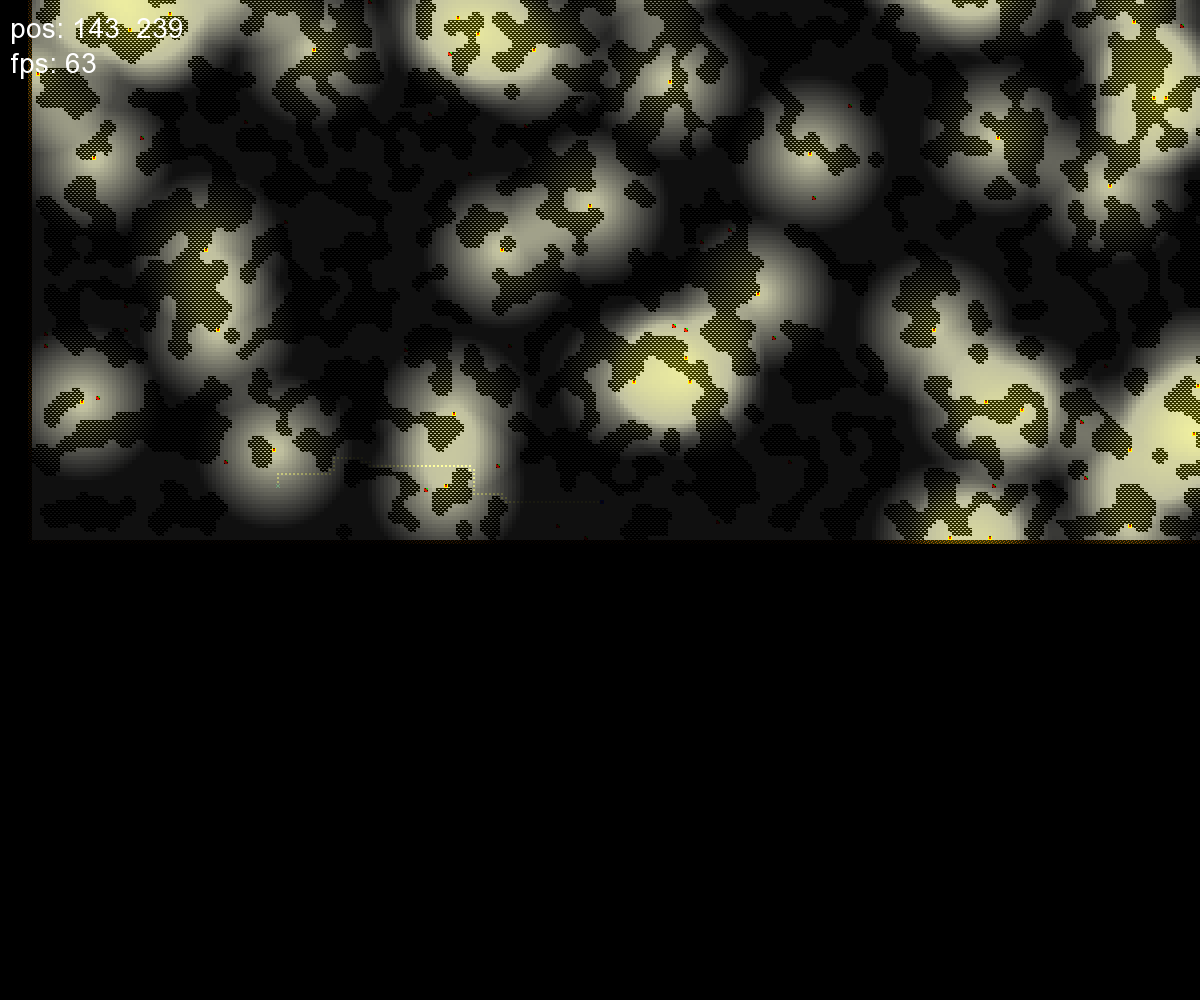
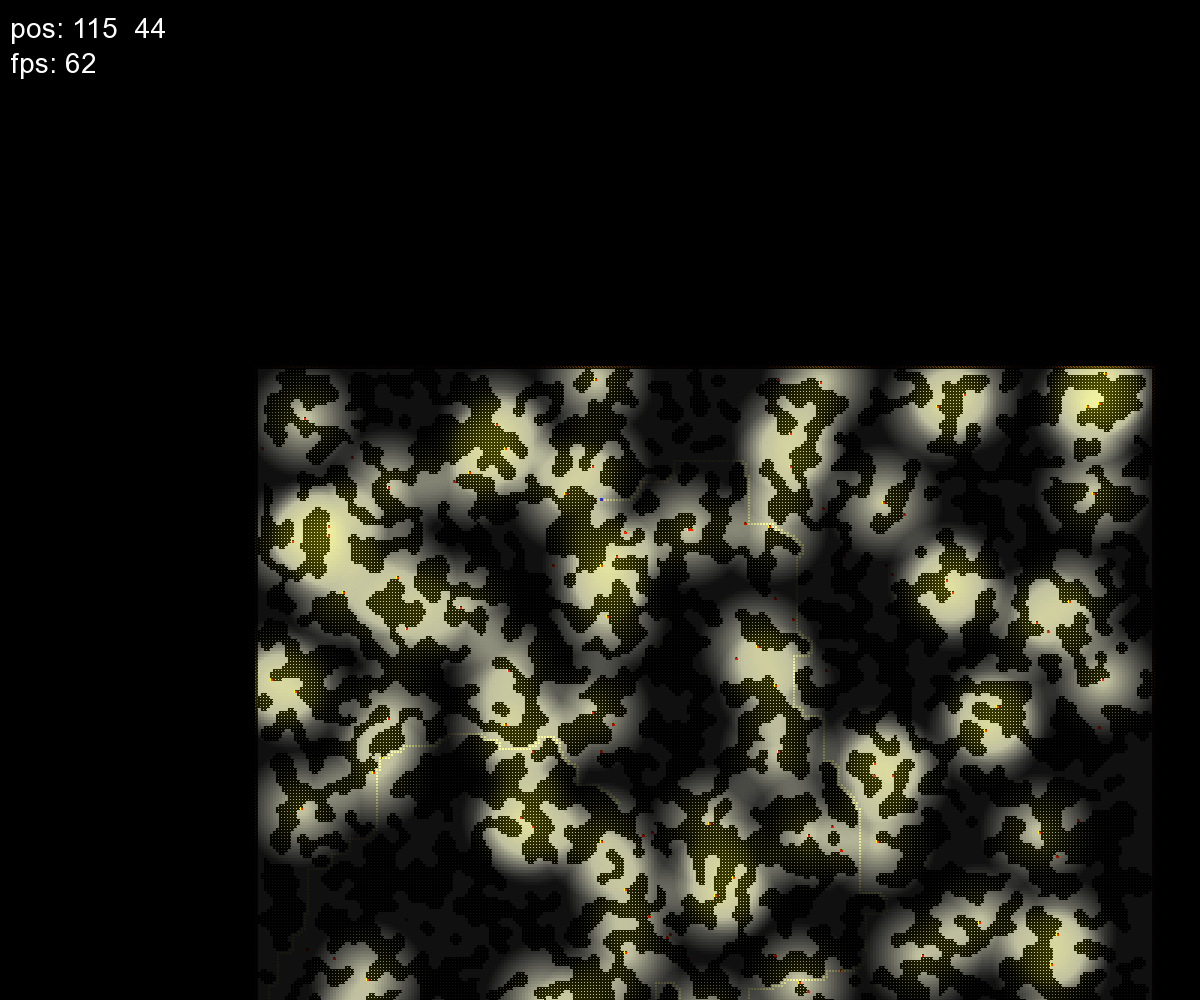
add width for tunnels

diff --git a/src/Life.cpp b/src/Life.cpp
@@ -40,7 +40,8 @@ Object OBJECTS[COUNT_OBJECTS] = {
 
 static void map_create_connectivity(char* map);
 static void set_room_connection    (char* map, Tunnel_t* tunnels, int count, int* mst);
-static void draw_line       (char* map, int x1, int y1, int x2, int y2);
+static void get_tunnel      (int* points, int x1, int y1, int x2, int y2);
+static void draw_circle     (char* map, int* points);
 static void get_graph_mst   (int* graph, int count, int* mst);
 static void make_graph      (MapRoom_t* map_room, int* graph, Tunnel_t* tunnels);
 static void paint_graph     (MapRoom_t* map_room, char* map);
@@ -57,7 +58,7 @@ static void select_free_pos (char* map, char* free_pos, int count_free, int* fre
 static bool check_neighbors (Object* src_obj, char* map, int pos);
 static int  is_obj_on_border(int x, int y);
 static int  obj_can_set     (char* map, int map_ind);
-static int get_obj_index    (int obj_sym);
+static int  get_obj_index   (int obj_sym);
 
 int pos_in_pix_window(int x, int y)
 {
@@ -124,11 +125,14 @@ static void set_room_connection(char* map, Tunnel_t* tunnels, int count, int* ms
         int x2 = finish % BYTE_WIDTH;
         int y2 = finish / BYTE_WIDTH;
 
-        draw_line(map, x1, y1, x2, y2);
+        int* points = (int*) calloc(sizeof(int), BYTE_HEIGHT * BYTE_WIDTH);
+        get_tunnel(points, x1, y1, x2, y2);
+        draw_circle(map, points);
+        free(points);
     }
 }
 
-static void draw_line(char* map, int x1, int y1, int x2, int y2)
+static void get_tunnel(int* points, int x1, int y1, int x2, int y2)
 {
     int dx = abs(x2 - x1);
     int dy = abs(y2 - y1);
@@ -138,18 +142,43 @@ static void draw_line(char* map, int x1, int y1, int x2, int y2)
     int e2;
     
     int x = x1, y = y1;
+    points[y * BYTE_WIDTH + x] = 1;
     while (!(x == x2 && y == y2)) {
-        map[y * BYTE_WIDTH + x] = SYM_OBJ_TUNNEL;
         e2 = 2 * err;
         if (e2 > -dy) {
             err -= dy;
             x += sx;
         }
 
-        map[y * BYTE_WIDTH + x] = SYM_OBJ_TUNNEL;
+        points[y * BYTE_WIDTH + x] = 1;
         if (e2 < dx) {
             err += dx;
             y += sy;
+        }
+        points[y * BYTE_WIDTH + x] = 1;
+    }
+}
+
+static void draw_circle(char* map, int* points)
+{
+    for (int pos = 0; pos < BYTE_HEIGHT * BYTE_WIDTH; pos++) {
+        if (points[pos] == 0) continue;
+
+        int x = pos % BYTE_WIDTH;
+        int y = pos / BYTE_WIDTH;
+        for (int dy = -TUNNELS_WIDTH; dy <= TUNNELS_WIDTH; dy++) {
+            for (int dx = -TUNNELS_WIDTH; dx <= TUNNELS_WIDTH; dx++) {
+                int dpos = pos + dy * BYTE_WIDTH + dx;
+
+                if (dpos < 0 || dpos >= BYTE_HEIGHT * BYTE_WIDTH)
+                    continue;
+
+                if (is_obj_on_border(x + dx, y + dy))
+                    continue;
+
+                if (dx * dx + dy * dy <= TUNNELS_WIDTH)
+                    map[dpos] = SYM_OBJ_TUNNEL;
+            }
         }
     }
 }
@@ -332,14 +361,14 @@ static void set_light_lamp(Map_t* map, int x, int y)
 
 static void map_gen(char* map)
 {
-    for (int i = 0; i < BYTE_HEIGHT; i++) {
-        for (int j = 0; j < BYTE_WIDTH; j++) {
-            int pos = i * BYTE_WIDTH + j;
-            if (is_obj_on_border(i, j))
+    for (int y = 0; y < BYTE_HEIGHT; y++) {
+        for (int x = 0; x < BYTE_WIDTH; x++) {
+            int pos = y * BYTE_WIDTH + x;
+            if (is_obj_on_border(x, y))
                 map[pos] = SYM_OBJ_BORDER;
 
-            int x = (rand() % 100 + 1);
-            if (x >= CHANCE_LIFE)
+            int chance = (rand() % 100 + 1);
+            if (chance >= CHANCE_LIFE)
                 map[pos] = SYM_OBJ_WALL;
             else
                 map[pos] = SYM_OBJ_ROAD;
@@ -350,10 +379,10 @@ static void map_gen(char* map)
 static void map_step(char* map)
 {
     char new_m[BYTE_HEIGHT * BYTE_WIDTH];
-    for (int i = 0; i < BYTE_HEIGHT; i++) {
-        for (int j = 0; j < BYTE_WIDTH; j++) {
-            int pos = i * BYTE_WIDTH + j;
-            if (is_obj_on_border(i, j)) {
+    for (int y = 0; y < BYTE_HEIGHT; y++) {
+        for (int x = 0; x < BYTE_WIDTH; x++) {
+            int pos = y * BYTE_WIDTH + x;
+            if (is_obj_on_border(x, y)) {
                 new_m[pos] = SYM_OBJ_BORDER;
                 continue;
             }
@@ -362,7 +391,7 @@ static void map_step(char* map)
                 for (int dy = -1; dy <= 1; dy++) {
                     if (!(((dx) != 0) || ((dy) != 0)))
                         continue;
-                    if (map[(i + dx) * BYTE_WIDTH + (j + dy)] == SYM_OBJ_WALL)
+                    if (map[(y + dx) * BYTE_WIDTH + (x + dy)] == SYM_OBJ_WALL)
                         byte_val_neighbours++;
                 }
             }
@@ -374,9 +403,9 @@ static void map_step(char* map)
                 new_m[pos] = SYM_OBJ_ROAD;
         }
     }
-    for (int i = 0; i < BYTE_HEIGHT; i++) {
-        for (int j = 0; j < BYTE_WIDTH; j++) {
-            int pos = i * BYTE_WIDTH + j;
+    for (int y = 0; y < BYTE_HEIGHT; y++) {
+        for (int x = 0; x < BYTE_WIDTH; x++) {
+            int pos = y * BYTE_WIDTH + x;
             map[pos] = new_m[pos];
         }
     }
@@ -397,9 +426,9 @@ static void map_fill_empty(char* map, PlayerSet_t* PlayerSet)
 
 static void count_free_pos(char* map, int* count_free, int* frees_ind)
 {
-    for (int i = 0; i < BYTE_HEIGHT; i++) {
-        for (int j = 0; j < BYTE_WIDTH; j++) {
-            int pos = i * BYTE_WIDTH + j;
+    for (int y = 0; y < BYTE_HEIGHT; y++) {
+        for (int x = 0; x < BYTE_WIDTH; x++) {
+            int pos = y * BYTE_WIDTH + x;
             for (int k = 0; k < COUNT_OBJECTS; k++) {
                 if (map[pos] == OBJECTS[k].symbol && OBJECTS[k].can_go) {
                     frees_ind[*count_free] = pos;
@@ -448,7 +477,7 @@ static bool check_neighbors(Object* src_obj, char* map, int pos)
                 continue;
 
             if (src_obj->symbol == SYM_OBJ_LAMP &&
-                map[dpos] == SYM_OBJ_LAMP)
+                (map[dpos] == SYM_OBJ_LAMP || map[dpos] == SYM_OBJ_BORDER))
                 return false;
 
             if (map[dpos] == SYM_OBJ_TUNNEL)
@@ -497,7 +526,7 @@ static void map_write2file(char* map, FILE* f)
 
 static int is_obj_on_border(int x, int y)
 {
-    return (x == 0 || y == 0 || x == BYTE_HEIGHT - 1 || y == BYTE_WIDTH - 1);
+    return (x == 0 || y == 0 || x == BYTE_WIDTH - 1 || y == BYTE_HEIGHT - 1);
 }
 
 static int obj_can_set(char* map, int map_ind)

diff --git a/src/Config.h b/src/Config.h
@@ -7,8 +7,8 @@ const int PIX_HEIGHT = 1000;
 const int PIX_WIDTH  = 1200;
 const int BYTE_HEIGHT = PIX_HEIGHT / hbyte2pix;
 const int BYTE_WIDTH = PIX_WIDTH  / wbyte2pix;
-const int STEPS_GEN = 16;
-const double CHANCE_LIFE = 52;
+const int STEPS_GEN = 18;
+const double CHANCE_LIFE = 51;
 const int STAY_IN_LIFE = 4;
 const int NEW_LIFE = 5;
 const int hscale_render = 4;
@@ -21,6 +21,7 @@ const int light_dist = 20;
 const double light_force = 1.f;
 const int MAX_SIZE_INFO_STR = 100;
 const int RENDER_THREADS = 3;
+const int TUNNELS_WIDTH = 2;
 
 typedef struct Path_t_ {
     int path[BYTE_HEIGHT * BYTE_WIDTH];
@@ -55,7 +56,7 @@ typedef enum CountObject2Render_ {
     COUNT_OBJ_INF =    -1,
     COUNT_OBJ_PLAYER =  1,
     COUNT_OBJ_COIN =   50,
-    COUNT_OBJ_LAMP =   70,
+    COUNT_OBJ_LAMP =   80,
     COUNT_OBJ_PATH =   -2
 } CountObject2Render;
 

diff --git a/README.md b/README.md
@@ -35,7 +35,7 @@
 * Use <code>F1</code> to open or close information
 
 ## Example
-<p align="center"><img src="https://github.com/baitim/Maze/blob/main/images/MazeExample.png" width="80%"></p>
+<p align="center"><img src="https://github.com/baitim/Maze/blob/main/images/MazeExample.png" width="90%"></p>
 
 ## CMD commands
 
@@ -61,7 +61,7 @@
 * Optimized by pthreads
 * Connectivity is guaranteed
 
-<p align="center"><img src="https://github.com/baitim/Maze/blob/main/images/rabbit.gif" width="50%"></p>
+<p align="center"><img src="https://github.com/baitim/Maze/blob/main/images/rabbit.gif" width="40%"></p>
 
 ## Support
 **This project is created by [baitim](https://t.me/bai_tim)**
